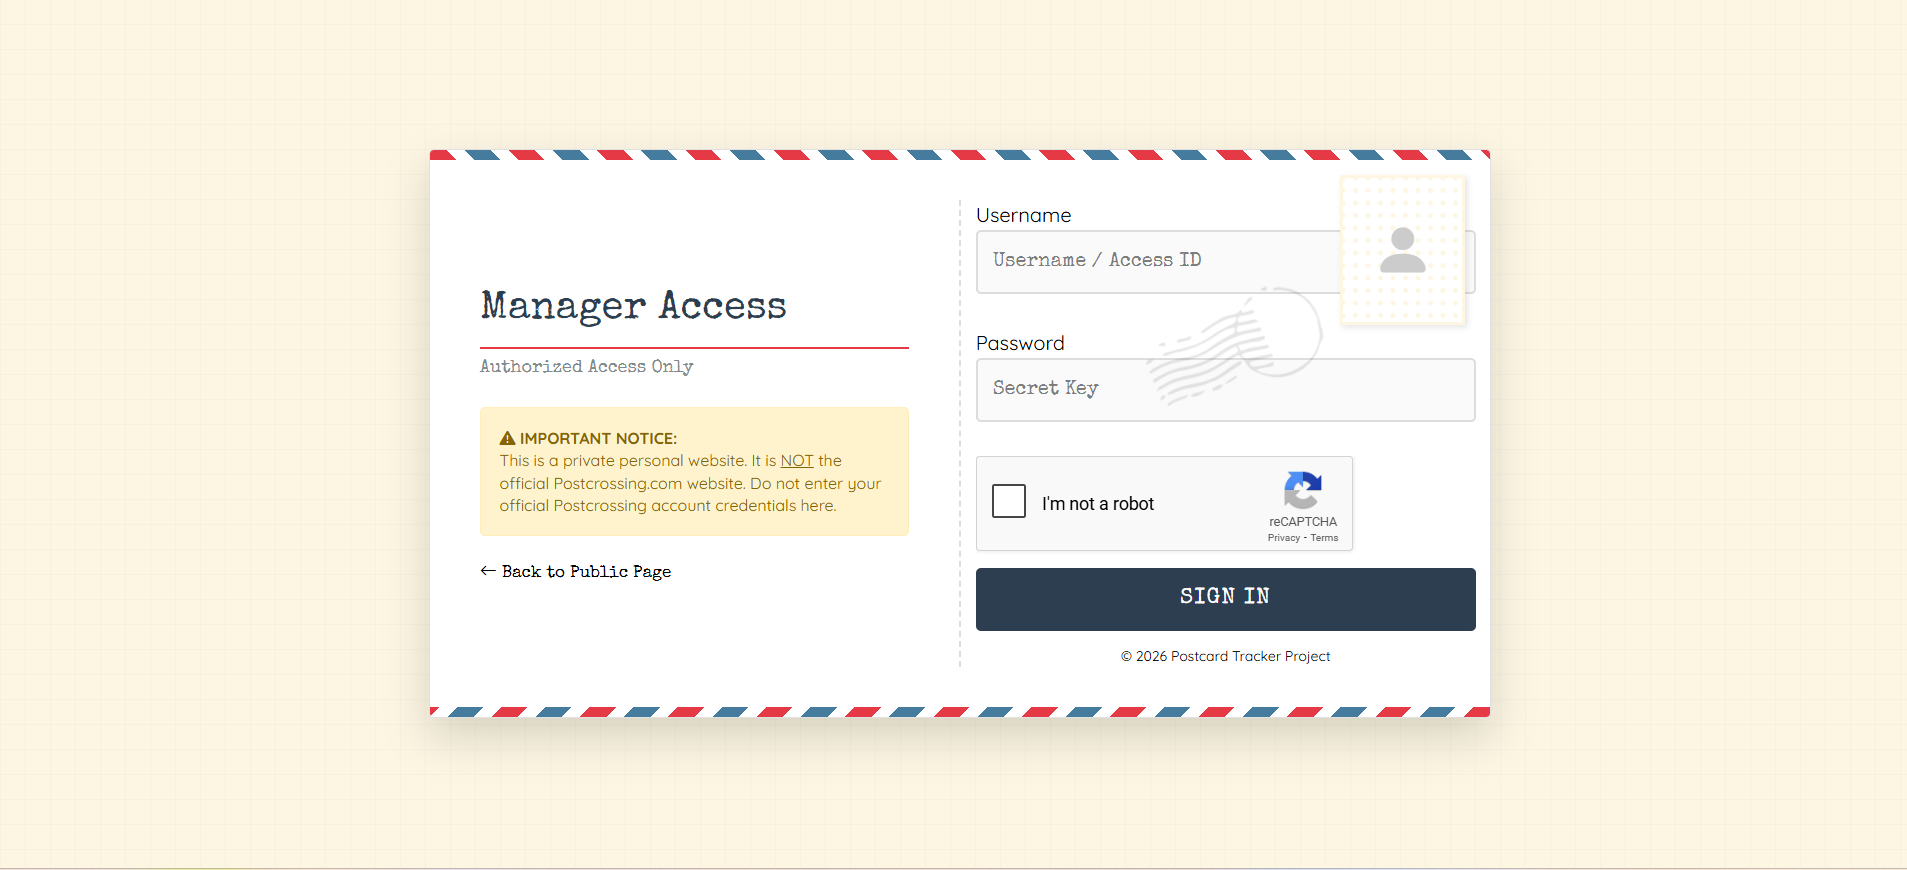
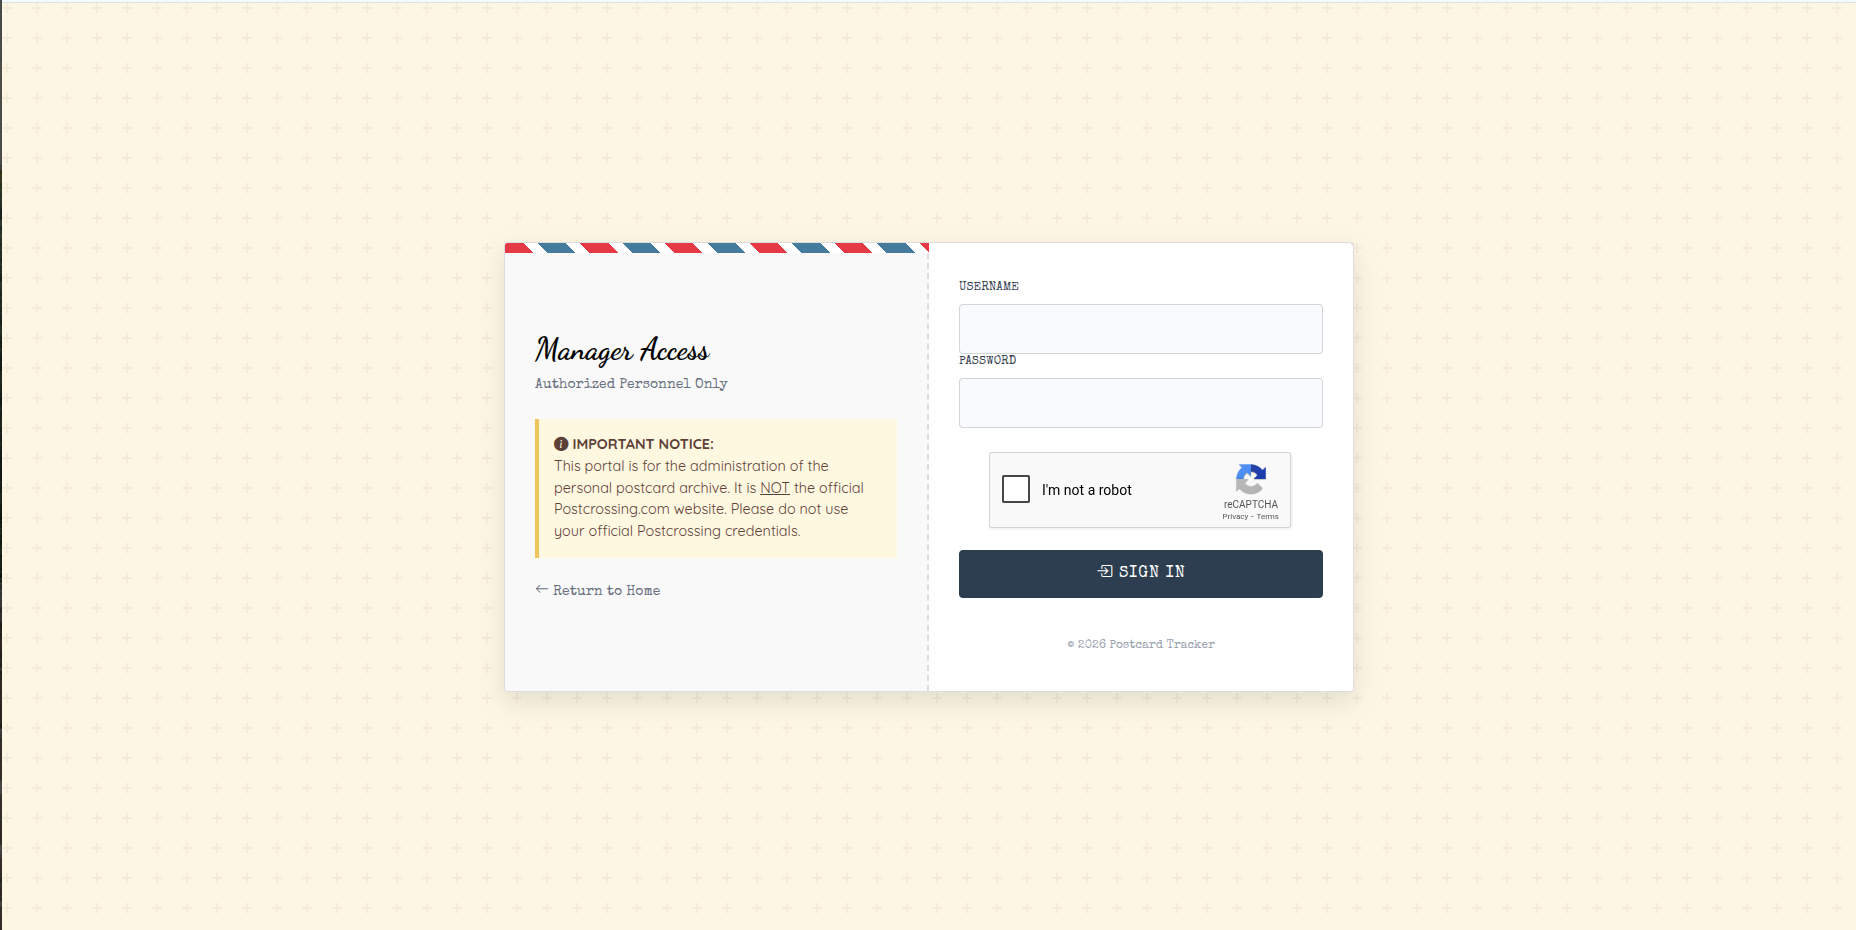
Official Release v1.0.0 - Fully Productionized & Secured

Changed region(s): [[0.2188, 0.1552, 0.7812, 0.8379], [0.0, 0.9931, 1.0, 1.0], [0.0, 0.0, 0.0312, 0.031]]

diff --git a/resources/views/components/layouts/app.blade.php b/resources/views/components/layouts/app.blade.php
@@ -226,8 +226,7 @@
         @livewireScripts
         
         <!-- Global Postcard Loader -->
-        <!-- wire:loading.flex handles Livewire actions, style="display: none;" handles initial state for JS navigation -->
-        <div id="global-loader" wire:loading.flex class="pc-loader-overlay" style="display: none;">
+        <div id="global-loader" class="pc-loader-overlay" style="display: none;">
             <div class="pc-envelope"></div>
             <div class="pc-shadow"></div>
             <div class="pc-loading-text">Traveling to destination...</div>
@@ -268,7 +267,7 @@
             document.addEventListener('DOMContentLoaded', () => {
                 const loader = document.getElementById('global-loader');
                 
-                // Show loader on link clicks (internal navigation only)
+                // 1. Handle Standard Link Navigation
                 document.body.addEventListener('click', (e) => {
                     const link = e.target.closest('a');
                     if (!link) return;
@@ -276,31 +275,42 @@
                     const href = link.getAttribute('href');
                     const target = link.getAttribute('target');
 
-                    // Skip if:
-                    // 1. External link
-                    // 2. Hash link (#) or same page anchor
-                    // 3. New tab target (_blank)
-                    // 4. Download attribute
-                    // 5. JavaScript void
+                    // Skip checks
                     if (
                         !href || 
                         href.startsWith('#') || 
                         href.startsWith('javascript:') || 
                         target === '_blank' || 
                         link.hasAttribute('download') ||
-                        (link.origin && link.origin !== window.location.origin)
+                        (link.origin && link.origin !== window.location.origin) ||
+                        link.getAttribute('wire:click') // Skip pure Livewire actions usually handled by hooks
                     ) {
-                        return;
+                        return; // Do nothing
                     }
 
-                    // Special case: Don't show loader for PWA install button or similar JS-handled links
+                    // Special case for PWA
                     if (link.getAttribute('@click.prevent')) return;
 
-                    // Show loader immediately
+                    // Show loader for standard navigation
                     if (loader) loader.style.display = 'flex';
                 });
 
-                // Hide loader when page is restored from bfcache (back/forward navigation)
+                // 2. Handle Livewire Navigation & Requests
+                // We use hooks to ensure it shows during component updates too
+                if (typeof Livewire !== 'undefined') {
+                    Livewire.hook('request.start', () => {
+                        if (loader) loader.style.display = 'flex';
+                    });
+                    
+                    Livewire.hook('request.end', () => {
+                        // Small delay to ensure smooth transition
+                        setTimeout(() => {
+                           if (loader) loader.style.display = 'none';
+                        }, 300);
+                    });
+                }
+
+                // 3. Hide on BF Cache Restore (Back Button)
                 window.addEventListener('pageshow', (event) => {
                     if (event.persisted && loader) {
                         loader.style.display = 'none';
